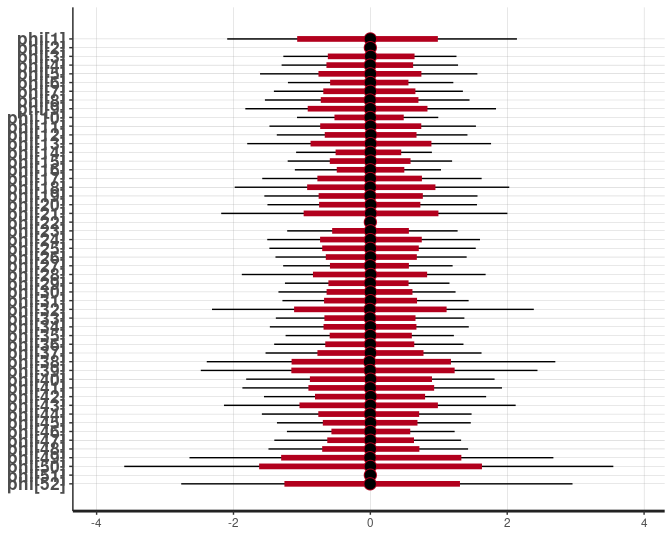
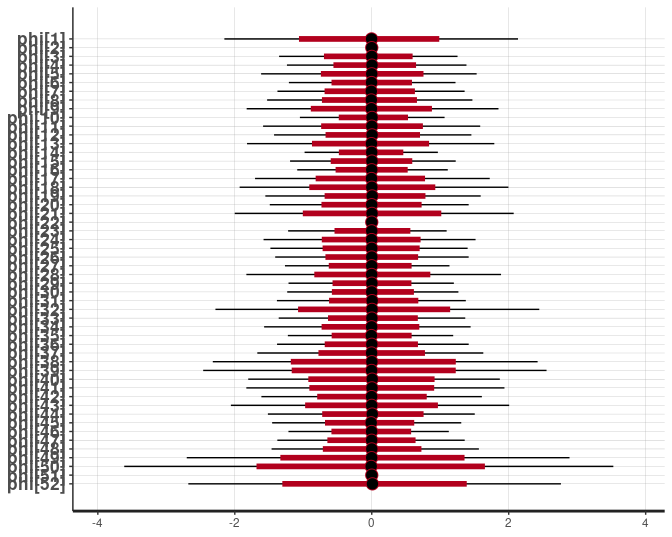
explain make_phi2

diff --git a/README.md b/README.md
@@ -1,18 +1,19 @@
 
 
--   [ICAR, BYM, and BYM2 models in
-    Stan](#icar-bym-and-bym2-models-in-stan)
--   [The ICAR prior](#the-icar-prior)
--   [BYM convolution term](#bym-convolution-term)
--   [BYM2 convolution term](#bym2-convolution-term)
--   [Putting it all together](#putting-it-all-together)
--   [Demonstration](#demonstration)
--   [Scaling the ICAR prior](#scaling-the-icar-prior)
+-   [Flexible Functions for ICAR, BYM, and BYM2 Models in
+    Stan](#flexible-functions-for-icar-bym-and-bym2-models-in-stan)
+    -   [The ICAR prior](#the-icar-prior)
+    -   [BYM convolution term](#bym-convolution-term)
+    -   [BYM2 convolution term](#bym2-convolution-term)
+    -   [Putting it all together](#putting-it-all-together)
+    -   [Demonstration](#demonstration)
+    -   [Scaling the ICAR prior](#scaling-the-icar-prior)
 -   [References](#references)
 
 <!-- README.md is generated from README.Rmd. Please edit that file -->
 
-### ICAR, BYM, and BYM2 models in Stan
+Flexible Functions for ICAR, BYM, and BYM2 Models in Stan
+=========================================================
 
 This repository contains R and Stan code to fit spatial models using
 intrinsic conditional autoregressive (ICAR) priors, including the BYM
@@ -49,13 +50,14 @@ study](https://github.com/stan-dev/example-models/blob/master/knitr/car-iar-pois
 and Morris et al. (2020). I’ve adapted the model to handle a variety of
 common scenarios, particularly the presence of observations with zero
 neighbors or data from multiple regions that are disconnected from each
-other. These situations impact the calculation of the log probability as
-well as how the terms of the BYM model can be combined. I drew on
-previous work by [Adam
-Howes](https://athowes.github.io/2020/11/10/fast-disconnected-car/)
-(particularly, some of his approach to indexing), and the repository
-also includes some additional contributions from Mitiz Morris (where
-indicated). I am solely responsible for any errors or oversights here.
+other. These situations impact how the sum-to-zero constraint is imposed
+on the model as well as how the terms of the BYM model can be combined.
+I drew on previous work by [Adam
+Howes](https://athowes.github.io/2020/11/10/fast-disconnected-car/), and
+the repository includes additional contributions from M. Morris (where
+indicated, carrying over some material from
+[Stan-Dev](https://github.com/stan-dev/example-models/tree/master/knitr/car-iar-poisson/update_2021_02)).
+I am solely responsible for any errors or oversights here.
 
 For a general introduction to ICAR models (including spatio-temporal
 specifications) see Haining and Li (2020). For an introduction to their
@@ -203,13 +205,26 @@ vector make_phi(vector phi_tilde, real phi_scale,
 }
 ```
 
-One way this model might be extended is by including a separate scale
-parameters for each connected component of the graph. This would require
-declaring `vector phi_scale` (a k-length vector) and then writing
+One way this model can be extended is by assigning a separate scale
+parameters for each connected component of the graph. Once you assign
+separate intercepts and scale parameters for each disconnected region,
+you have independent prior models for each region. Imposing the
+constraint that disconnected regions have the same scale parameter may
+seem unreasonable for some applications, and also may slow down
+sampling. For example, why would the spatial autocorrelation parameters
+for the counties of Hawaii have the same scale as those for the
+continental U.S.?
+
+Implementing this extension requires declaring
+`vector<lower=0>[1+m] phi_scale` in the parameters block and then
+adjusting the `make_phi` function as follows:
 
 ``` r
 phi[ segment(group_idx, pos, group_size[j]) ] = phi_scale[j] * inv_sqrt_scale_factor[j] * phi_tilde[ segment(group_idx, pos, group_size[j]) ];`.
 ```
+
+The `icar-functions.stan` file contains a function called `make_phi2`
+with that adjustment made.
 
 ### BYM convolution term
 
